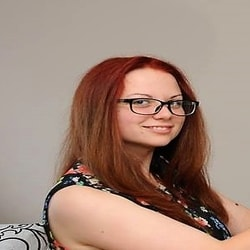
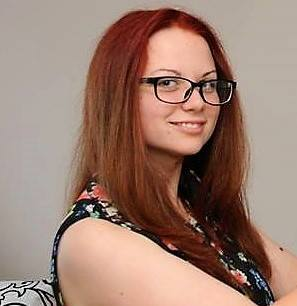
update

diff --git a/index.html b/index.html
@@ -87,7 +87,7 @@
                 <div class="col-12 col-md-4">
                     <div class="row">
                         <div class="col-12 col-md-5">
-                            <img src="images/angela2.jpg" alt="Angela" class="rounded-circle">
+                            <img src="images/angela.jpg" alt="Angela" class="rounded-circle">
                         </div>
                         <div class="col-12 col-md-7">
                             <h5 class="team-name">Angela M.</h5>
